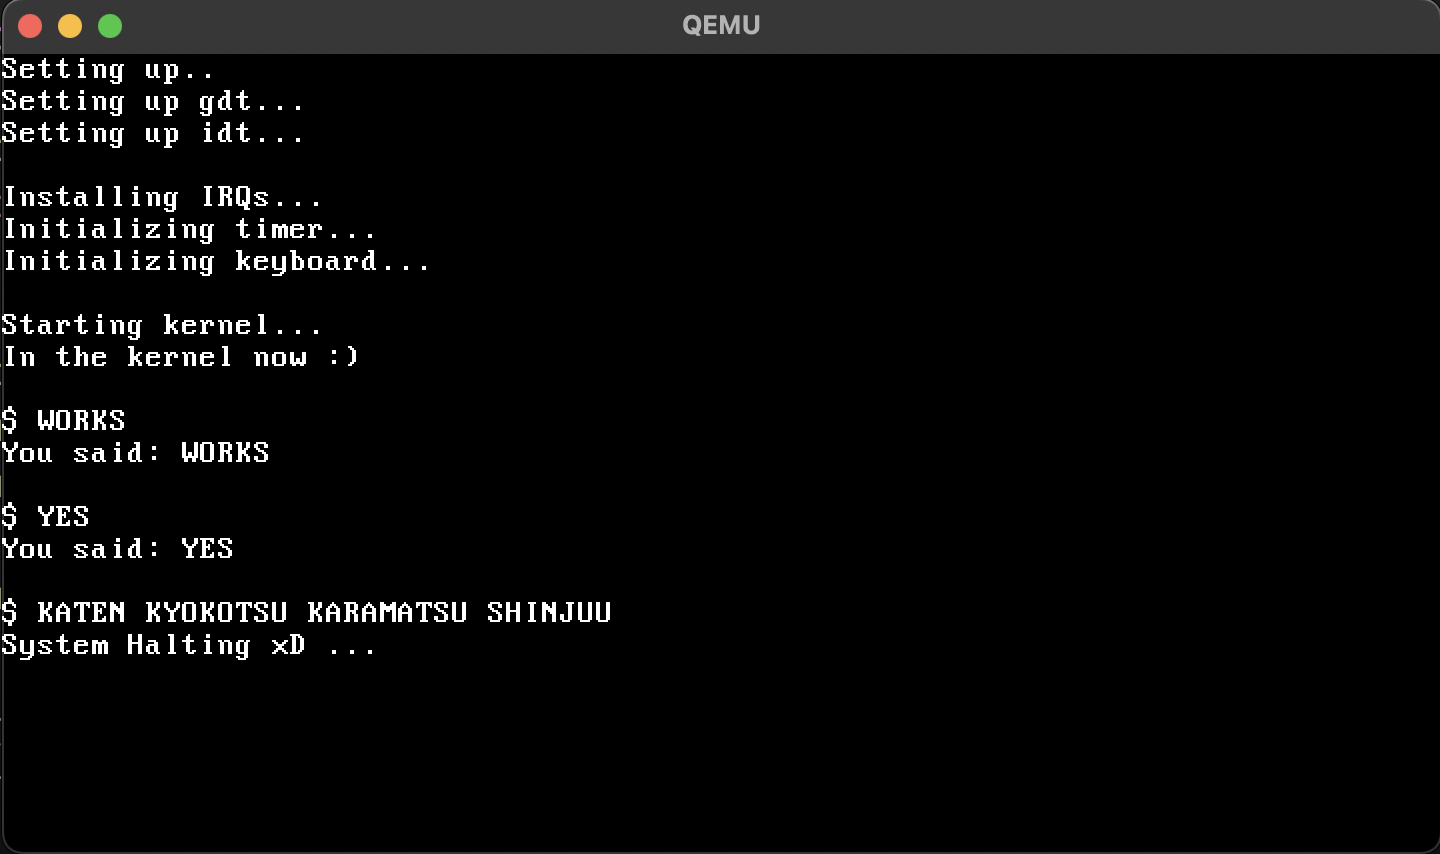
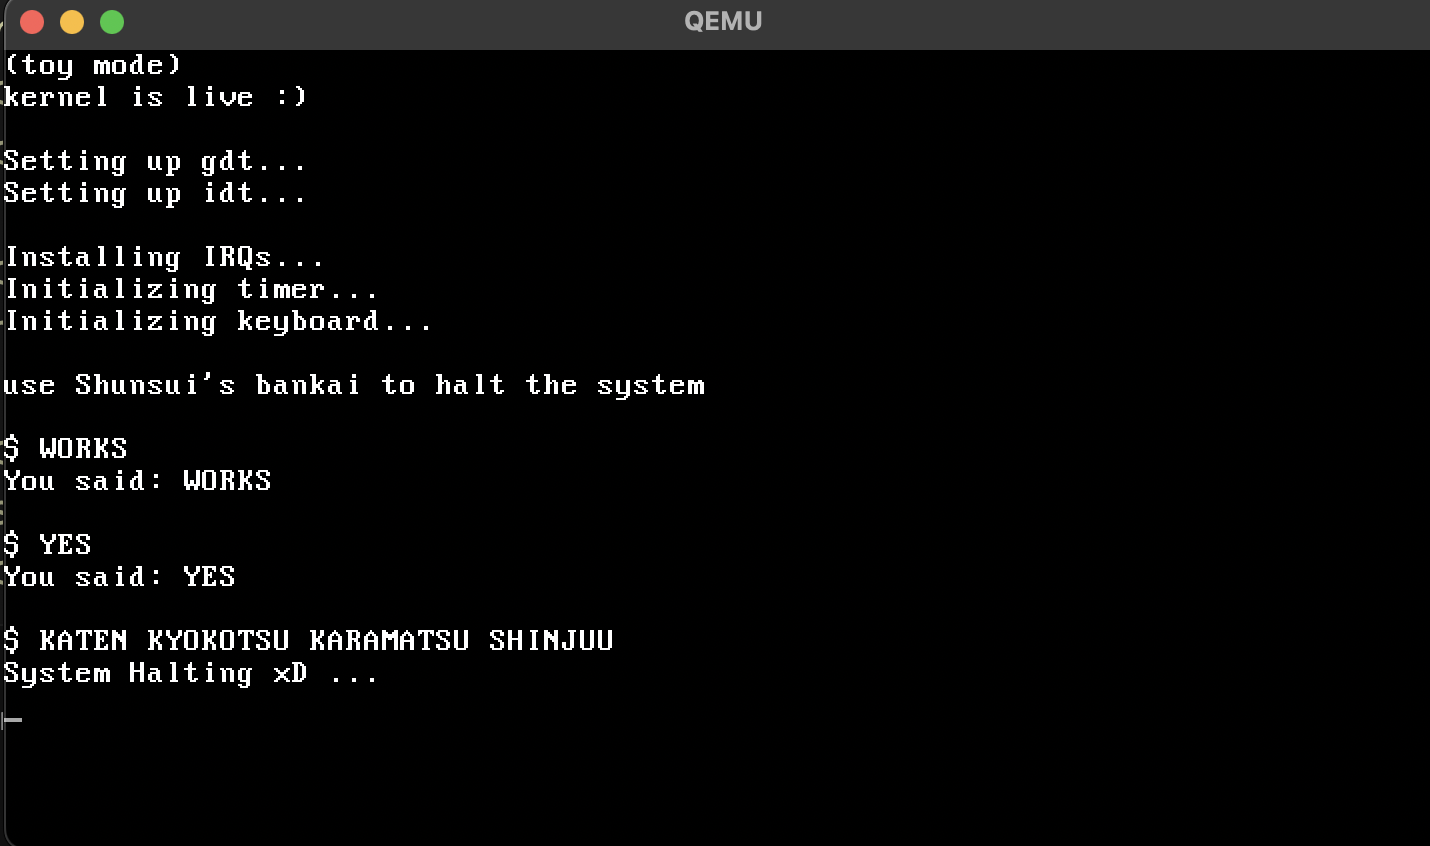
refactor

diff --git a/arch/i386/kernel/kernel.c b/arch/i386/kernel/kernel.c
@@ -1,13 +1,29 @@
 #include "../drivers/screen.h"
 #include "kernel.h"
 #include "../../../libc/string.h"
+#include "../boot/isr.h"
 
 __attribute__((noreturn)) void kernel_nop_loop() {
     while (1) {}
 }
 
 __attribute__((noreturn)) void kernel_main() {
-    screen_println("In the kernel now :)\n");
+    screen_println("(toy mode)");
+    screen_print("kernel is live :)\n\n");
+        
+    screen_println("Setting up gdt...");
+    init_gdt();
+
+    screen_println("Setting up idt...");
+    isr_install();
+    screen_println("");
+
+    screen_println("Installing IRQs...");
+    irq_install();
+    screen_println("");
+
+    screen_print("use Shunsui's bankai to halt the system\n\n");
+
     screen_print("$ ");
     
     kernel_nop_loop();

diff --git a/arch/i386/cpu/timer.c b/arch/i386/cpu/timer.c
@@ -3,7 +3,7 @@
 #include "port.h"
 #include "../../../libc/function.h"
 #include "../drivers/screen.h"
-#include "../../../libc/string.h";
+#include "../../../libc/string.h"
 
 u32 tick = 0;
 

diff --git a/arch/i386/kernel/kernel.h b/arch/i386/kernel/kernel.h
@@ -1,3 +1,5 @@
 void kernel_main();
 void accept_input();
 void handle_keyboard_input(char *input);
+
+extern void init_gdt();
